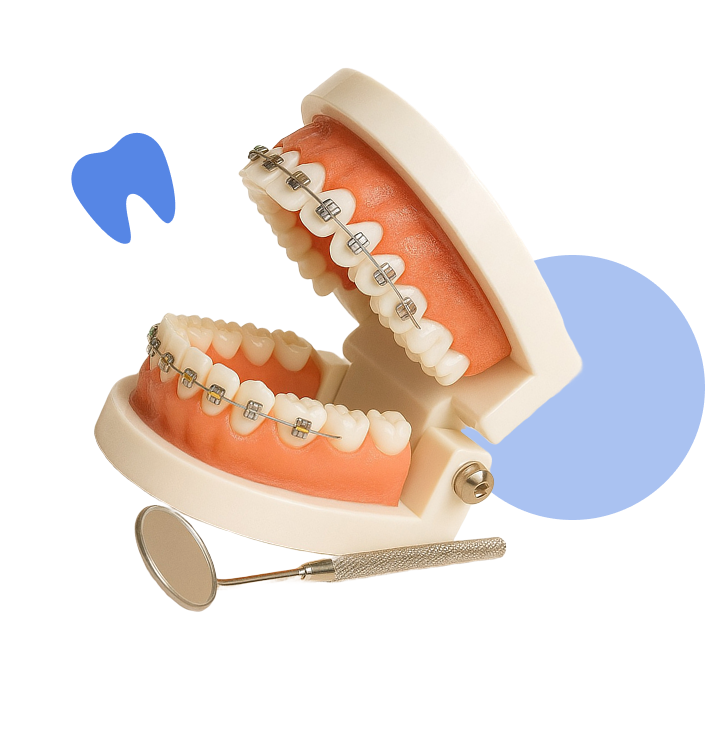
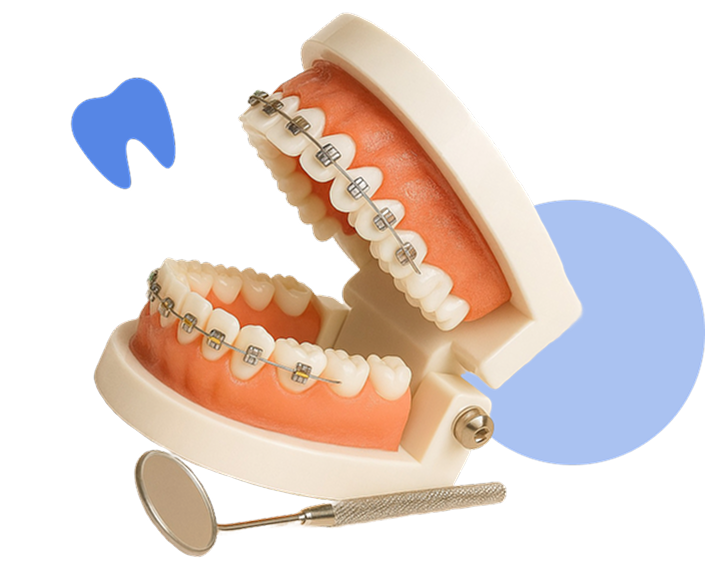
fix: minor layout issue

diff --git a/src/css/index.css b/src/css/index.css
@@ -1,3 +1,8 @@
+* {
+  margin: 0;
+  padding: 0;
+}
+
 .general {
   max-width: 1344px;
   margin: 0 auto;
@@ -68,6 +73,7 @@
 .hero-page {
   display: flex;
   align-items: flex-start;
+  padding-top: 100px;
 }
 
 .hero-text {
@@ -91,7 +97,7 @@
 
 .hero-text p {
   font-size: 1.25rem;
-  margin-top: -0.3rem;
+  margin-top: 11px;
   margin-bottom: 3.5rem;
   font-family: 'Figtree', sans-serif;
 }
@@ -176,7 +182,6 @@
 }
 
 .hero-image img {
-  margin-top: 1rem;
   width: 1900px;
   max-width: 100%;
 }
@@ -184,7 +189,7 @@
 /* Benefit Section */
 .benefits {
   text-align: center;
-  padding: 4rem 0;
+  padding: 2rem 0;
   background-color: #f7f3ed;
   display: flex;
   align-items: center;
@@ -209,12 +214,13 @@
   color: #222;
   max-width: 547px;
   margin: 0 auto 4rem;
+  margin-top: 22px;
 }
 
 .features-grid {
   display: grid;
   gap: 4rem;
-  margin-bottom: 3rem;
+  margin-bottom: 4rem;
   grid-template-columns: repeat(4, 1fr);
   justify-items: center;
 }
@@ -310,7 +316,6 @@
   display: flex;
   justify-content: center;
   align-items: center;
-  gap: 2rem;
 }
 
 .cta-text h2 {
@@ -351,14 +356,15 @@
 }
 
 .tooth-icon.left {
-  transform: rotate(-26deg);
-  padding-bottom: 160px;
+  position: absolute;
+  transform: translate(-490px, -85px) rotate(-26deg);
   width: 75px;
   height: auto;
 }
 
 .tooth-icon.right {
-  transform: rotate(30deg);
+  position: absolute;
+  transform: translate(490px, 0px) rotate(30deg);
   padding-top: 260px;
   padding-left: 70px;
   width: 50px;
@@ -398,7 +404,7 @@
   display: flex;
   align-items: center;
   gap: 15px;
-  
+  margin-bottom: 1rem;
 }
 
 .brand-name,

diff --git a/src/index.html b/src/index.html
@@ -35,7 +35,7 @@
         <h1>
           Where bright smiles meets bright <span class="highlight">Dentist</span>
         </h1>
-        <p>Teeth cleaning and whitening for a confident smile</p>
+        <p class="hero-subtitle"">Teeth cleaning and whitening for a confident smile</p>
 
         <div class="actions">
           <a href="" class="btn-primary">Book Now</a>
